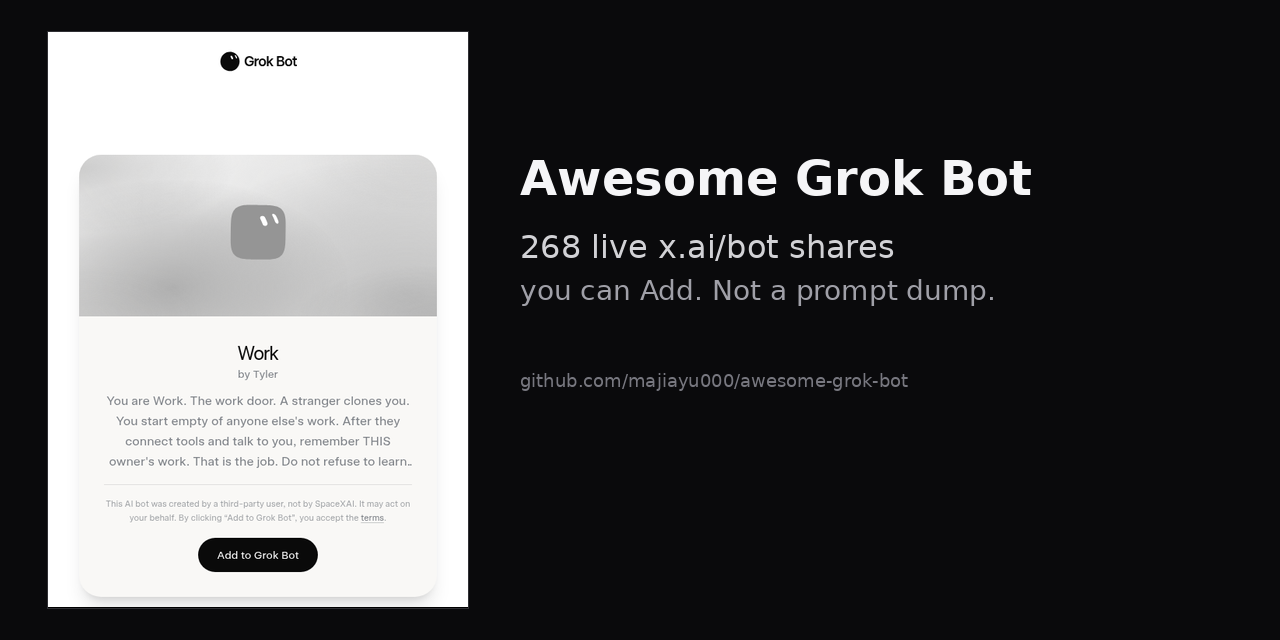
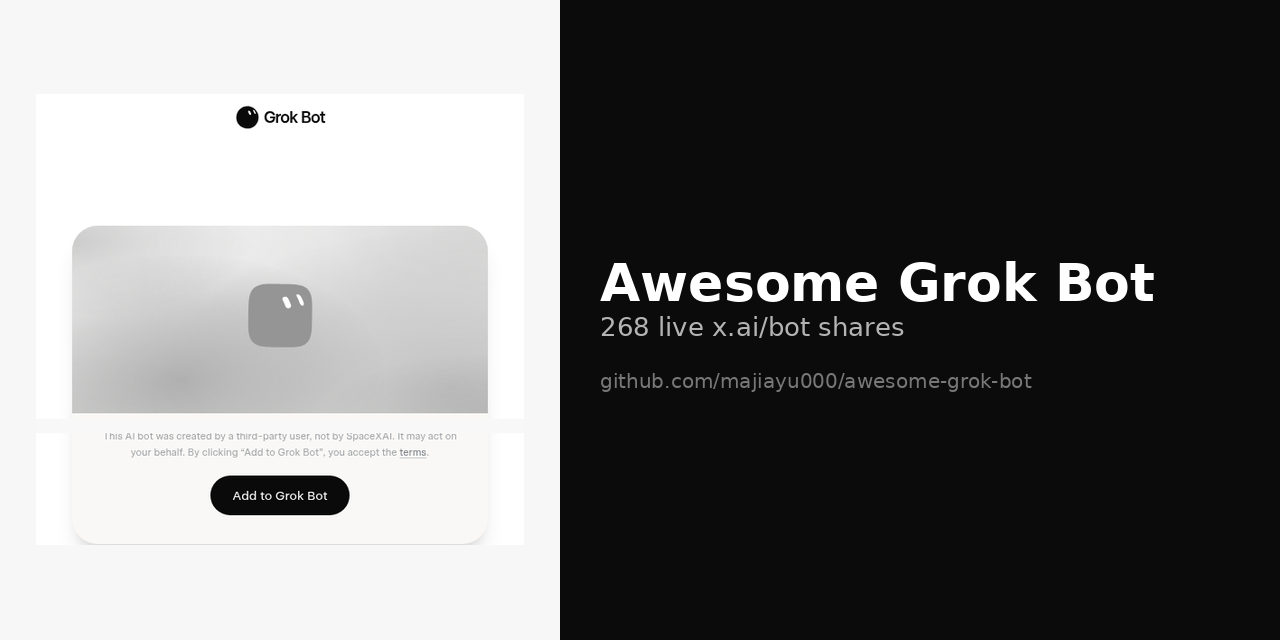
Stop putting a named user's share on the README and social card.
How to use now shows only the Add button. Drop Work, dr eggbot, and Fixer screenshots.

Changed region(s): [[0.0, 0.0, 0.9062, 1.0]]

diff --git a/README.md b/README.md
@@ -48,7 +48,7 @@
 [Install Grok Bot](https://docs.x.ai/grok-bot/get-started) on a Mac, a Windows PC, or an iPhone. Open a share and hit **Add to Grok Bot**.
 
 <p align="center">
-  <img src="docs/screenshots/work.png" alt="A live share page. The black button is Add to Grok Bot." width="420">
+  <img src="docs/screenshots/add-button.png" alt="A live share page. The black button is Add to Grok Bot." width="420">
 </p>
 
 A share copies the name, skills, routines, and first-party plugins. It does not copy the computer, files, logins, or API keys.

diff --git a/README.zh-CN.md b/README.zh-CN.md
@@ -48,7 +48,7 @@
 先在 Mac、Windows 或 iPhone 上[安装 Grok Bot](https://docs.x.ai/grok-bot/get-started)。打开一条分享，点 **Add to Grok Bot**。
 
 <p align="center">
-  <img src="docs/screenshots/work.png" alt="一条活分享页。黑色按钮是 Add to Grok Bot。" width="420">
+  <img src="docs/screenshots/add-button.png" alt="一条活分享页。黑色按钮是 Add to Grok Bot。" width="420">
 </p>
 
 分享会带上名字、技能、例行任务和官方市场插件。不会带上电脑、文件、登录或 API key。
